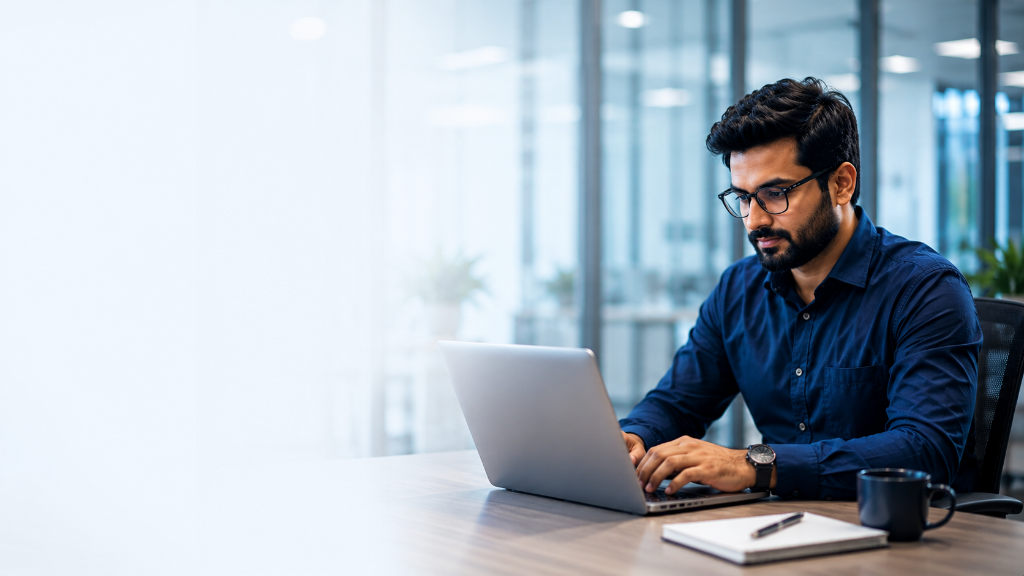
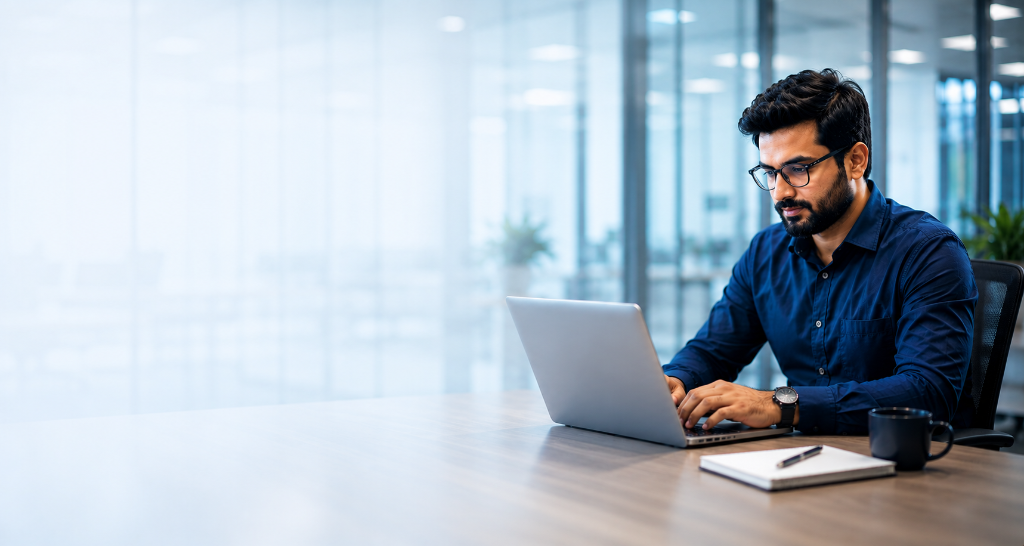
feat: Replace background image asset with latest clean upload

diff --git a/dist/index.html b/dist/index.html
@@ -12,7 +12,7 @@
       href="https://fonts.googleapis.com/css2?family=Plus+Jakarta+Sans:wght@400;500;600;700;800&family=Syne:wght@600;700;800&display=swap"
       rel="stylesheet"
     />
-    <script type="module" crossorigin src="/assets/index-DSZL1kMy.js"></script>
+    <script type="module" crossorigin src="/assets/index-DrW7O3Kz.js"></script>
     <link rel="stylesheet" crossorigin href="/assets/index-Dqha8yTm.css">
   </head>
   <body>
